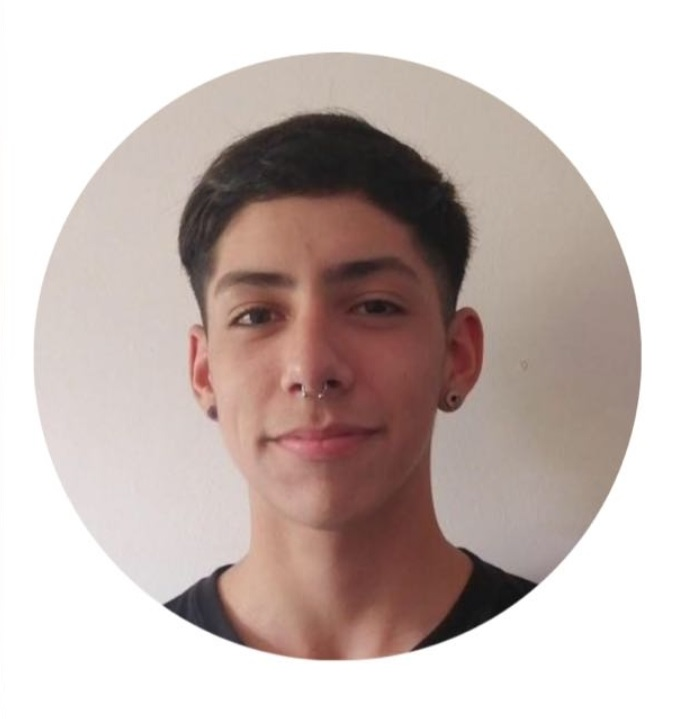
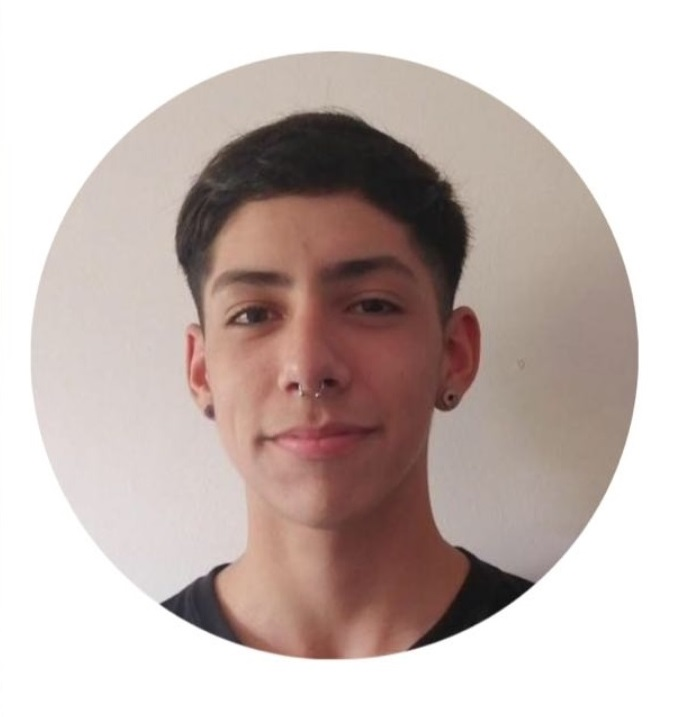
center img profile

diff --git a/src/App.css b/src/App.css
@@ -175,6 +175,7 @@ a {
     overflow: hidden;
     border-radius: 5% 40% 5% 40%;
     position: relative;
+    margin-right: 3vw;
 }
 
 .container-profile-img img {
@@ -182,7 +183,8 @@ a {
     height: auto;
     border-radius: 5% 40% 5% 40%;
     object-fit: cover;
-    padding-right: 3vw;
+    /*padding-right: 3vw;*/
+
     object-position: top;
 }
 
@@ -362,6 +364,10 @@ a {
 }
 
 @media screen and (max-width:900px) {
+    .container-portfolio {
+        padding: 4vw 0;
+    }
+
     .container-presentation {
         width: 80%;
     }
